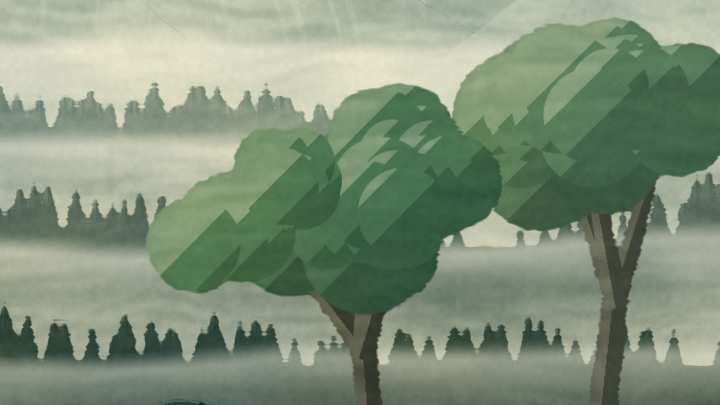
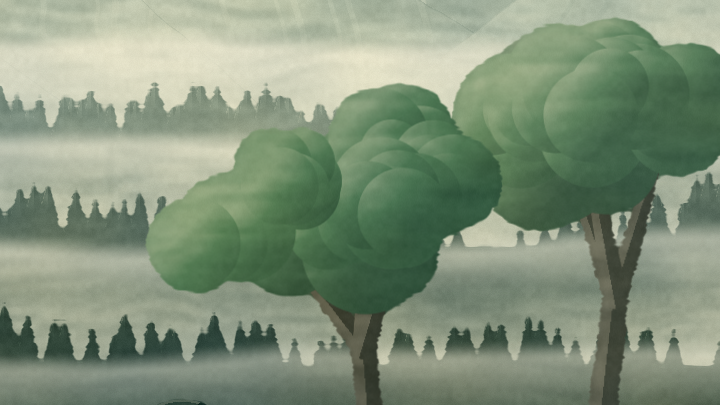
Illustrated environments: continuous form lighting on foliage and boughs (cel styles still quantise)
Claude-Session: https://claude.ai/code/session_01YBqayZhtLQZUoDivv8TjYD

diff --git a/crates/anikit-video/src/components/nature.rs b/crates/anikit-video/src/components/nature.rs
@@ -2113,14 +2113,9 @@ fn paint_prims(ps: &[Prim], w: usize, h: usize, org: [f32; 2], light: [f32; 2]) 
                 cv.disc(cx, cy, rr, *col, &|u, v| {
                     let glob = ((cx + u * rr - mx) * light[0] + (cy + v * rr - my) * light[1]) / mr;
                     let loc = u * light[0] + v * light[1];
+                    // Continuous light across the mass; cel styles quantise it into 3 tones.
                     let val = 0.55 * glob + 0.5 * loc;
-                    if val > 0.32 {
-                        -0.4
-                    } else if val > -0.2 {
-                        0.12
-                    } else {
-                        0.62
-                    }
+                    (0.12 - 1.1 * val).clamp(-0.45, 0.65)
                 });
             }
             Prim::Limb { a, b, ra, rb, col, lit, dark } => {
@@ -2133,7 +2128,8 @@ fn paint_prims(ps: &[Prim], w: usize, h: usize, org: [f32; 2], light: [f32; 2]) 
                 cv.poly(&q, *col, &|px, py| {
                     let side = (px - ax) * lx;
                     let under = smoothstep(bt - (bt - t) * 0.22, bt, py);
-                    let base = if side > 0.0 { -0.25 } else { 0.5 };
+                    let k = smoothstep(-0.12, 0.12, side / (bt - t).abs().max(1.0));
+                    let base = 0.5 - 0.75 * k;
                     base + under * 0.35
                 });
             }
